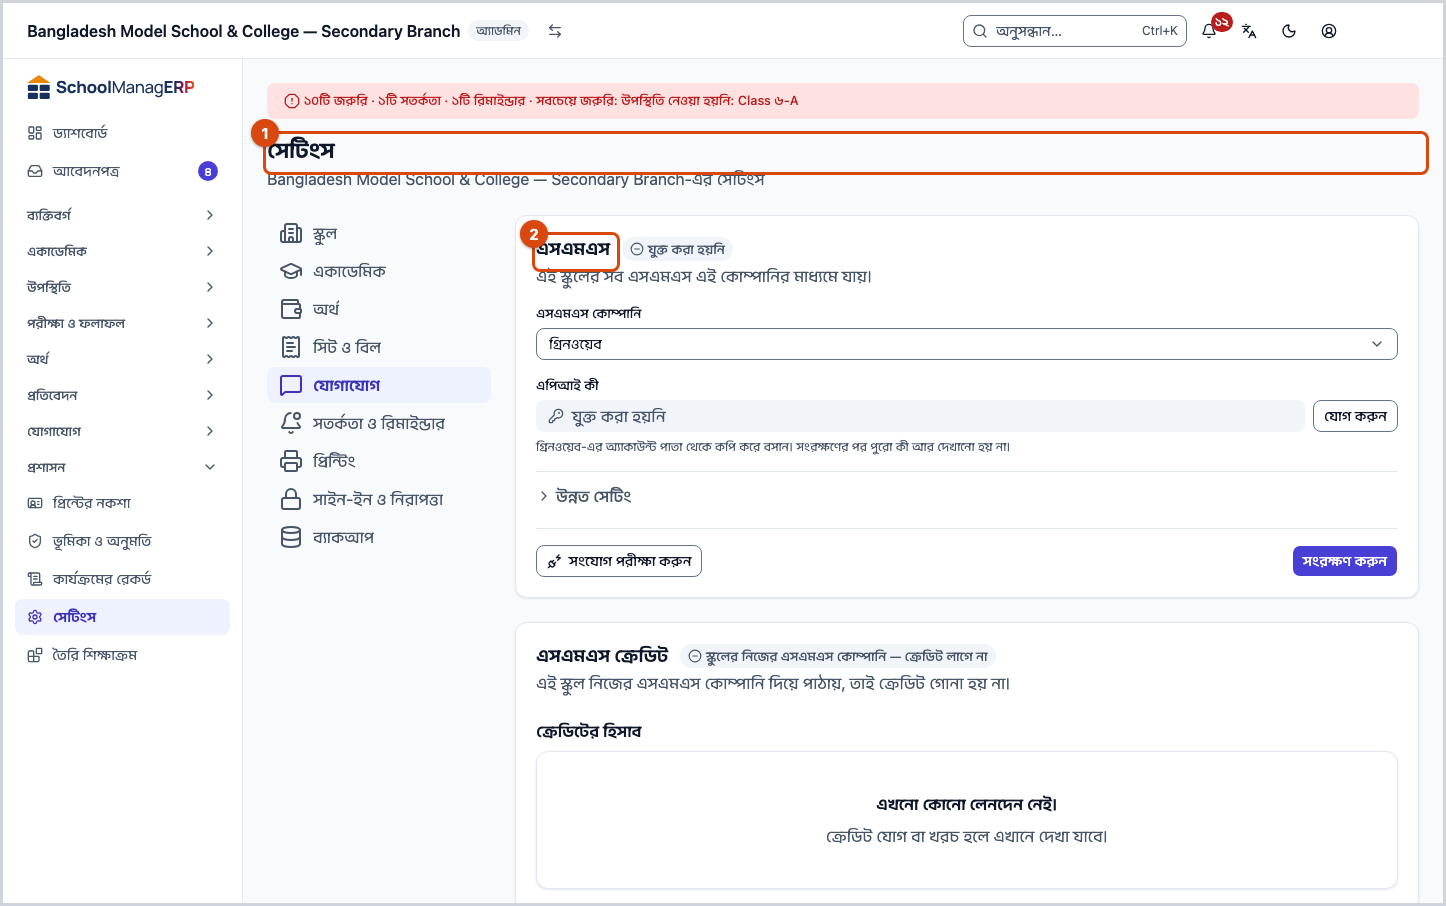
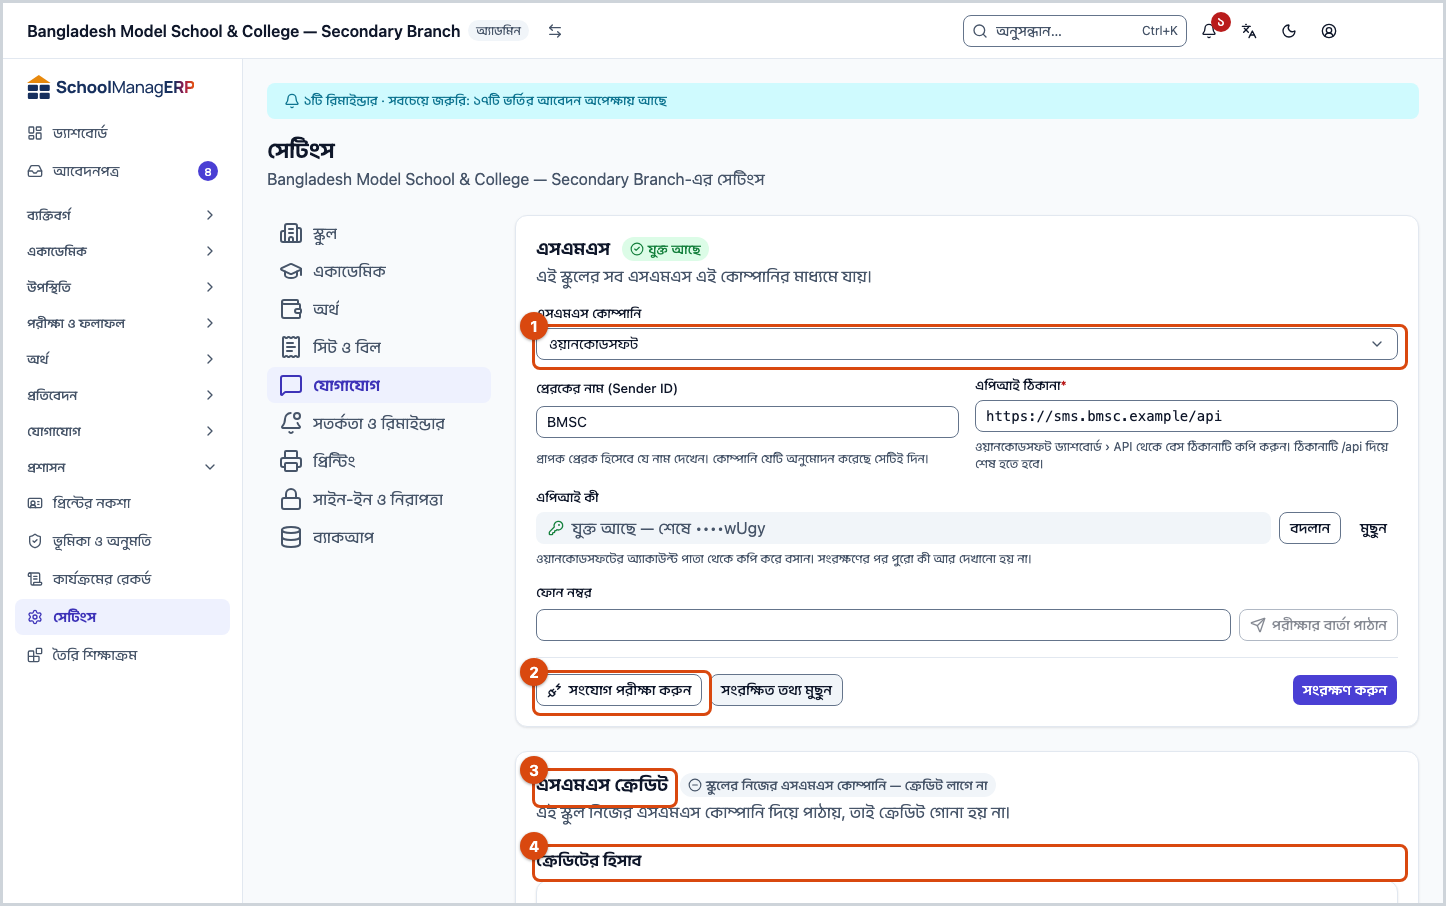
docs(guide): Message log and Communication settings screenshots, tours, and the lost-race guard test (#3311)
- Runs the guide capture on a seeded demo school: new message-log-01/02 (bn + en) for the Message
  log page, and a re-shot settings-communication (bn + en) whose four markers now match the
  guide's description (SMS company, Test connection, SMS credit, Credit history).
- The capture helper hides the dev-server TanStack devtools, so shots never show them.
- Adds the test that a Check status losing the race to another check changes nothing: the
  `status = 'SENT'` guard on its own, not the one-minute wait.

diff --git a/e2e/docs/tours/administration.tour.ts b/e2e/docs/tours/administration.tour.ts
@@ -5,12 +5,22 @@
 import { test, type Page } from '@playwright/test';
 
 import { imgDir } from '../helpers/capture';
-import { asRole, go, snap, step } from '../helpers/nav';
+import { asRole, go, snap, step, tr } from '../helpers/nav';
 
 const dir = imgDir('administration');
 const f = (name: string) => `${dir}/${name}.png`;
 const h1 = (p: Page) => p.getByRole('main').getByRole('heading', { level: 1 });
-const SECTIONS = ['school', 'academics', 'finance', 'billing', 'communication', 'printing', 'security', 'alerts', 'backup'];
+const SECTIONS = [
+  'school',
+  'academics',
+  'finance',
+  'billing',
+  'communication',
+  'printing',
+  'security',
+  'alerts',
+  'backup',
+];
 
 async function settle(page: Page, ms = 1500) {
   await page.waitForLoadState('networkidle').catch(() => undefined);
@@ -39,7 +49,10 @@ test('administration pages', async ({ browser }, info) => {
   await step('roles', async () => {
     await go(page, '/roles');
     await settle(page, 2000);
-    await snap(page, f('roles-01-list'), [{ target: h1(page) }, { target: main.locator('div.rounded-lg.border').first() }]);
+    await snap(page, f('roles-01-list'), [
+      { target: h1(page) },
+      { target: main.locator('div.rounded-lg.border').first() },
+    ]);
   });
 
   await step('print-templates', async () => {
@@ -58,7 +71,27 @@ test('administration pages', async ({ browser }, info) => {
     await step(`settings-${s}`, async () => {
       await go(page, `/settings?section=${s}`);
       await settle(page, 2500);
-      await snap(page, f(`settings-${s}`), [{ target: h1(page) }, { target: main.getByRole('heading').nth(1) }]);
+      // Communication has its own numbered parts, matching the guide's alt text (Epic 97).
+      const targets =
+        s === 'communication'
+          ? [
+              { target: page.locator('#sms-section').getByRole('combobox').first() },
+              {
+                target: page
+                  .locator('#sms-section')
+                  .getByRole('button', { name: tr('settings', 'testConnection.action') }),
+              },
+              {
+                target: main.getByText(tr('settings', 'smsCredit.legend'), { exact: true }).first(),
+              },
+              {
+                target: main
+                  .getByText(tr('settings', 'smsCredit.ledgerTitle'), { exact: true })
+                  .first(),
+              },
+            ]
+          : [{ target: h1(page) }, { target: main.getByRole('heading').nth(1) }];
+      await snap(page, f(`settings-${s}`), targets);
     });
   }
 });

diff --git a/server/src/modules/communications/delivery-status.service.integration.spec.ts b/server/src/modules/communications/delivery-status.service.integration.spec.ts
@@ -157,6 +157,34 @@ describe('DeliveryStatusService (integration)', () => {
     });
   });
 
+  // The status = 'SENT' guard, on its own (not the one-minute wait): a concurrent check that
+  // already flipped the row and moved the counters while this one waited on the vendor must leave
+  // this one with a 409 and the counters where they are.
+  it('a check that loses the race to another check changes nothing', async () => {
+    const batch = await addBatch(tenantA, 2);
+    const id = await addSentLog(tenantA, { provider: 'stub-sms' }, batch);
+    await addSentLog(tenantA, { provider: 'stub-sms' }, batch);
+    getStatus.mockImplementation(async () => {
+      // The other check finishes first: row FAILED, counters 1/1.
+      await dataSource.query(`UPDATE communication_logs SET status = 'FAILED' WHERE id = $1`, [id]);
+      await dataSource.query(
+        `UPDATE reminder_batches SET successful_count = 1, failed_count = 1, status = 'PARTIALLY_FAILED' WHERE id = $1`,
+        [batch],
+      );
+      return { status: 'FAILED', code: '1001' };
+    });
+
+    await expect(service.checkStatus(id, tenantA, 'ADMIN')).rejects.toBeInstanceOf(
+      ConflictException,
+    );
+
+    expect(await counts(batch)).toEqual({
+      successful_count: 1,
+      failed_count: 1,
+      status: 'PARTIALLY_FAILED',
+    });
+  });
+
   it('FAILED on the only recipient of a batch makes the batch FAILED', async () => {
     const batch = await addBatch(tenantA, 1);
     const id = await addSentLog(tenantA, { provider: 'stub-sms' }, batch);

diff --git a/e2e/docs/helpers/capture.ts b/e2e/docs/helpers/capture.ts
@@ -104,6 +104,26 @@ export async function prepare(page: Page, opts: { pointer?: boolean } = {}): Pro
     if (document.head) add();
     else document.addEventListener('DOMContentLoaded', add);
   }, css);
+  // A dev-server client (`vite`) draws the TanStack Router and Query devtools in the corners; a
+  // school's own app never does, so the shots must not show them.
+  await page.addInitScript(() => {
+    const hide = () => {
+      for (const el of document.querySelectorAll<HTMLElement>('.tsqd-open-btn-container')) {
+        el.style.display = 'none';
+      }
+      for (const b of document.querySelectorAll<HTMLElement>('button')) {
+        if (b.textContent?.includes('TanStack Router')) {
+          (b.closest<HTMLElement>('div[class^="go"]') ?? b).style.display = 'none';
+        }
+      }
+      for (const el of document.querySelectorAll<HTMLElement>(
+        '[class*="TanStackRouterDevtools"]',
+      )) {
+        el.style.display = 'none';
+      }
+    };
+    setInterval(hide, 300);
+  });
 }
 
 export interface Callout {

diff --git a/e2e/docs/tours/w12-comms.tour.ts b/e2e/docs/tours/w12-comms.tour.ts
@@ -132,3 +132,23 @@ test('comms W12: reminder history', async ({ browser }, info) => {
     await snap(page, f('reminder-history-02'), []);
   });
 });
+
+test('comms W12: message log', async ({ browser }, info) => {
+  test.skip(info.project.metadata.device !== 'desktop');
+  test.setTimeout(900_000);
+  const page = await asRole(browser, info, 'admin');
+  await step('message-log-01', async () => {
+    await go(page, '/communications/message-log');
+    await page.waitForTimeout(3000);
+    await page.setViewportSize({ width: 1440, height: 1000 });
+    await snap(page, f('message-log-01'), []);
+  });
+  await step('message-log-02', async () => {
+    await page
+      .getByRole('button', { name: tr('communications', 'messageLog.viewDetail') })
+      .first()
+      .click();
+    await page.waitForTimeout(1500);
+    await snap(page, f('message-log-02'), []);
+  });
+});

diff --git a/docs/user-guide/bn/communications/message-log.md b/docs/user-guide/bn/communications/message-log.md
@@ -87,7 +87,9 @@ knownIssues: []
 
 4. বার্তাটি কোনো রিমাইন্ডারের দফার হলে **দফাটি খুলুন** চাপুন; দফার পাতা খোলে ([রিমাইন্ডার ইতিহাস](reminder-history.md))।
 
-<!-- image pending: message-log-01.png, the list with the detail window open (guide:shoot, #3311) -->
+![বার্তার তালিকা: ওপরে ছাঁকনি, তারপর প্রতি সারিতে একটি বার্তা আর তার অবস্থা (পৌঁছেছে বা পাঠানো হয়েছে)](img/message-log-01.png)
+
+![একটি পৌঁছানো এসএমএসের বার্তার বিবরণ জানালা: প্রাপক, অবস্থা, কোম্পানি, এসএমএসের ভাগ আর বার্তার লেখা](img/message-log-02.png)
 
 ---
 

diff --git a/docs/user-guide/en/communications/message-log.md b/docs/user-guide/en/communications/message-log.md
@@ -86,7 +86,9 @@ On the demo and staging sites nothing is really sent: the messages land in the *
 
 4. If the message belongs to a round of reminders, press **Open the round**. The round's page opens ([Reminder history](reminder-history.md)).
 
-<!-- image pending: message-log-01.png, the list with the detail window open (guide:shoot, #3311) -->
+![The Message log: filters on top, then one message per row with its Status (Delivered or Sent)](img/message-log-01.png)
+
+![The Message details window for a Delivered SMS: Recipient, Status, Company, SMS parts and the message text](img/message-log-02.png)
 
 ---
 
